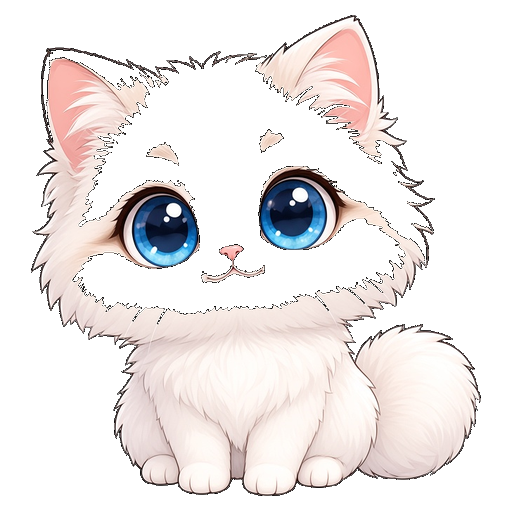
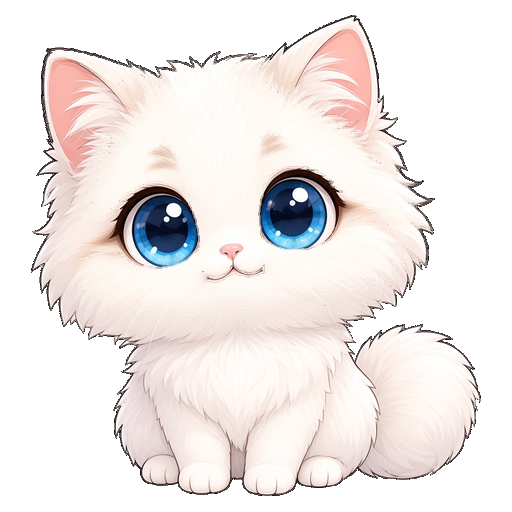
Fix Nomi face transparency holes in idle/blink assets
Run fix_nomi_face to fill interior alpha holes and rebuild WebP.
Bump asset query ?v=face2 for cache refresh.

diff --git a/articles/01-2023-chatgpt-fear.html b/articles/01-2023-chatgpt-fear.html
@@ -133,13 +133,13 @@
   </div>
   <button type="button" class="nomi-fab" id="nomiFab" aria-haspopup="dialog" aria-controls="nomiLayer" aria-expanded="false" aria-label="和 Nomi 聊天">
     <span class="nomi-hint">摸一下 Nomi</span>
-    <img class="nomi-face" src="../assets/nomi-chibi-idle.png" width="200" height="200" alt="Nomi">
+    <img class="nomi-face" src="../assets/nomi-chibi-idle.png?v=face2" width="200" height="200" alt="Nomi">
   </button>
   <div class="nomi-layer" id="nomiLayer" role="dialog" aria-modal="true" aria-labelledby="nomiTitle" hidden>
     <div class="nomi-panel">
       <div class="nomi-head">
         <div class="nomi-avatar" aria-hidden="true">
-          <img class="nomi-face" src="../assets/nomi-chibi-idle.png" width="48" height="48" alt="">
+          <img class="nomi-face" src="../assets/nomi-chibi-idle.png?v=face2" width="48" height="48" alt="">
         </div>
         <div class="nomi-head-txt">
           <strong id="nomiTitle">Nomi</strong>

diff --git a/articles/02-2024-not-just-chat.html b/articles/02-2024-not-just-chat.html
@@ -151,13 +151,13 @@
   </div>
   <button type="button" class="nomi-fab" id="nomiFab" aria-haspopup="dialog" aria-controls="nomiLayer" aria-expanded="false" aria-label="和 Nomi 聊天">
     <span class="nomi-hint">摸一下 Nomi</span>
-    <img class="nomi-face" src="../assets/nomi-chibi-idle.png" width="200" height="200" alt="Nomi">
+    <img class="nomi-face" src="../assets/nomi-chibi-idle.png?v=face2" width="200" height="200" alt="Nomi">
   </button>
   <div class="nomi-layer" id="nomiLayer" role="dialog" aria-modal="true" aria-labelledby="nomiTitle" hidden>
     <div class="nomi-panel">
       <div class="nomi-head">
         <div class="nomi-avatar" aria-hidden="true">
-          <img class="nomi-face" src="../assets/nomi-chibi-idle.png" width="48" height="48" alt="">
+          <img class="nomi-face" src="../assets/nomi-chibi-idle.png?v=face2" width="48" height="48" alt="">
         </div>
         <div class="nomi-head-txt">
           <strong id="nomiTitle">Nomi</strong>

diff --git a/articles/03-2025-fixing-ai-errors.html b/articles/03-2025-fixing-ai-errors.html
@@ -215,13 +215,13 @@
   </div>
   <button type="button" class="nomi-fab" id="nomiFab" aria-haspopup="dialog" aria-controls="nomiLayer" aria-expanded="false" aria-label="和 Nomi 聊天">
     <span class="nomi-hint">摸一下 Nomi</span>
-    <img class="nomi-face" src="../assets/nomi-chibi-idle.png" width="200" height="200" alt="Nomi">
+    <img class="nomi-face" src="../assets/nomi-chibi-idle.png?v=face2" width="200" height="200" alt="Nomi">
   </button>
   <div class="nomi-layer" id="nomiLayer" role="dialog" aria-modal="true" aria-labelledby="nomiTitle" hidden>
     <div class="nomi-panel">
       <div class="nomi-head">
         <div class="nomi-avatar" aria-hidden="true">
-          <img class="nomi-face" src="../assets/nomi-chibi-idle.png" width="48" height="48" alt="">
+          <img class="nomi-face" src="../assets/nomi-chibi-idle.png?v=face2" width="48" height="48" alt="">
         </div>
         <div class="nomi-head-txt">
           <strong id="nomiTitle">Nomi</strong>

diff --git a/articles/04-2025-agent-prd.html b/articles/04-2025-agent-prd.html
@@ -220,13 +220,13 @@
   </div>
   <button type="button" class="nomi-fab" id="nomiFab" aria-haspopup="dialog" aria-controls="nomiLayer" aria-expanded="false" aria-label="和 Nomi 聊天">
     <span class="nomi-hint">摸一下 Nomi</span>
-    <img class="nomi-face" src="../assets/nomi-chibi-idle.png" width="200" height="200" alt="Nomi">
+    <img class="nomi-face" src="../assets/nomi-chibi-idle.png?v=face2" width="200" height="200" alt="Nomi">
   </button>
   <div class="nomi-layer" id="nomiLayer" role="dialog" aria-modal="true" aria-labelledby="nomiTitle" hidden>
     <div class="nomi-panel">
       <div class="nomi-head">
         <div class="nomi-avatar" aria-hidden="true">
-          <img class="nomi-face" src="../assets/nomi-chibi-idle.png" width="48" height="48" alt="">
+          <img class="nomi-face" src="../assets/nomi-chibi-idle.png?v=face2" width="48" height="48" alt="">
         </div>
         <div class="nomi-head-txt">
           <strong id="nomiTitle">Nomi</strong>

diff --git a/articles/05-2026-ai-news-notes.html b/articles/05-2026-ai-news-notes.html
@@ -163,13 +163,13 @@
   </div>
   <button type="button" class="nomi-fab" id="nomiFab" aria-haspopup="dialog" aria-controls="nomiLayer" aria-expanded="false" aria-label="和 Nomi 聊天">
     <span class="nomi-hint">摸一下 Nomi</span>
-    <img class="nomi-face" src="../assets/nomi-chibi-idle.png" width="200" height="200" alt="Nomi">
+    <img class="nomi-face" src="../assets/nomi-chibi-idle.png?v=face2" width="200" height="200" alt="Nomi">
   </button>
   <div class="nomi-layer" id="nomiLayer" role="dialog" aria-modal="true" aria-labelledby="nomiTitle" hidden>
     <div class="nomi-panel">
       <div class="nomi-head">
         <div class="nomi-avatar" aria-hidden="true">
-          <img class="nomi-face" src="../assets/nomi-chibi-idle.png" width="48" height="48" alt="">
+          <img class="nomi-face" src="../assets/nomi-chibi-idle.png?v=face2" width="48" height="48" alt="">
         </div>
         <div class="nomi-head-txt">
           <strong id="nomiTitle">Nomi</strong>

diff --git a/about.html b/about.html
@@ -73,13 +73,13 @@
   </div>
   <button type="button" class="nomi-fab" id="nomiFab" aria-haspopup="dialog" aria-controls="nomiLayer" aria-expanded="false" aria-label="和 Nomi 聊天">
     <span class="nomi-hint">摸一下 Nomi</span>
-    <img class="nomi-face" src="assets/nomi-chibi-idle.png" width="200" height="200" alt="Nomi">
+    <img class="nomi-face" src="assets/nomi-chibi-idle.png?v=face2" width="200" height="200" alt="Nomi">
   </button>
   <div class="nomi-layer" id="nomiLayer" role="dialog" aria-modal="true" aria-labelledby="nomiTitle" hidden>
     <div class="nomi-panel">
       <div class="nomi-head">
         <div class="nomi-avatar" aria-hidden="true">
-          <img class="nomi-face" src="assets/nomi-chibi-idle.png" width="48" height="48" alt="">
+          <img class="nomi-face" src="assets/nomi-chibi-idle.png?v=face2" width="48" height="48" alt="">
         </div>
         <div class="nomi-head-txt">
           <strong id="nomiTitle">Nomi</strong>

diff --git a/articles.html b/articles.html
@@ -68,13 +68,13 @@
   </div>
   <button type="button" class="nomi-fab" id="nomiFab" aria-haspopup="dialog" aria-controls="nomiLayer" aria-expanded="false" aria-label="和 Nomi 聊天">
     <span class="nomi-hint">摸一下 Nomi</span>
-    <img class="nomi-face" src="assets/nomi-chibi-idle.png" width="200" height="200" alt="Nomi">
+    <img class="nomi-face" src="assets/nomi-chibi-idle.png?v=face2" width="200" height="200" alt="Nomi">
   </button>
   <div class="nomi-layer" id="nomiLayer" role="dialog" aria-modal="true" aria-labelledby="nomiTitle" hidden>
     <div class="nomi-panel">
       <div class="nomi-head">
         <div class="nomi-avatar" aria-hidden="true">
-          <img class="nomi-face" src="assets/nomi-chibi-idle.png" width="48" height="48" alt="">
+          <img class="nomi-face" src="assets/nomi-chibi-idle.png?v=face2" width="48" height="48" alt="">
         </div>
         <div class="nomi-head-txt">
           <strong id="nomiTitle">Nomi</strong>

diff --git a/projects.html b/projects.html
@@ -96,13 +96,13 @@
   </div>
   <button type="button" class="nomi-fab" id="nomiFab" aria-haspopup="dialog" aria-controls="nomiLayer" aria-expanded="false" aria-label="和 Nomi 聊天">
     <span class="nomi-hint">摸一下 Nomi</span>
-    <img class="nomi-face" src="assets/nomi-chibi-idle.png" width="200" height="200" alt="Nomi">
+    <img class="nomi-face" src="assets/nomi-chibi-idle.png?v=face2" width="200" height="200" alt="Nomi">
   </button>
   <div class="nomi-layer" id="nomiLayer" role="dialog" aria-modal="true" aria-labelledby="nomiTitle" hidden>
     <div class="nomi-panel">
       <div class="nomi-head">
         <div class="nomi-avatar" aria-hidden="true">
-          <img class="nomi-face" src="assets/nomi-chibi-idle.png" width="48" height="48" alt="">
+          <img class="nomi-face" src="assets/nomi-chibi-idle.png?v=face2" width="48" height="48" alt="">
         </div>
         <div class="nomi-head-txt">
           <strong id="nomiTitle">Nomi</strong>

diff --git a/index.html b/index.html
@@ -108,14 +108,14 @@
 
   <button type="button" class="nomi-fab" id="nomiFab" aria-haspopup="dialog" aria-controls="nomiLayer" aria-expanded="false" aria-label="和 Nomi 聊天">
     <span class="nomi-hint">摸一下 Nomi</span>
-    <img class="nomi-face" src="assets/nomi-chibi-idle.png" width="200" height="200" alt="Nomi">
+    <img class="nomi-face" src="assets/nomi-chibi-idle.png?v=face2" width="200" height="200" alt="Nomi">
   </button>
 
   <div class="nomi-layer" id="nomiLayer" role="dialog" aria-modal="true" aria-labelledby="nomiTitle" hidden>
     <div class="nomi-panel">
       <div class="nomi-head">
         <div class="nomi-avatar" aria-hidden="true">
-          <img class="nomi-face" src="assets/nomi-chibi-idle.png" width="48" height="48" alt="">
+          <img class="nomi-face" src="assets/nomi-chibi-idle.png?v=face2" width="48" height="48" alt="">
         </div>
         <div class="nomi-head-txt">
           <strong id="nomiTitle">Nomi</strong>

diff --git a/nomi-motion.js b/nomi-motion.js
@@ -16,15 +16,15 @@
     var img = fab.querySelector('img.nomi-face');
     if (!img) return;
     var base = assetBase(img);
-    var idle = base + 'nomi-chibi-idle.png';
-    var anim = base + 'nomi-anim.webp';
+    var idle = base + 'nomi-chibi-idle.png?v=face2';
+    var anim = base + 'nomi-anim.webp?v=face2';
     function setIdle() {
       img.src = idle;
     }
 
     function playAnim() {
       if (reduce) return;
-      img.src = anim + '?play=' + Date.now();
+      img.src = anim + '&play=' + Date.now();
     }
 
     setIdle();
@@ -39,6 +39,6 @@
 
   document.querySelectorAll('.nomi-avatar img.nomi-face').forEach(function (img) {
     var base = assetBase(img);
-    img.src = base + 'nomi-chibi-idle.png';
+    img.src = base + 'nomi-chibi-idle.png?v=face2';
   });
 })();
